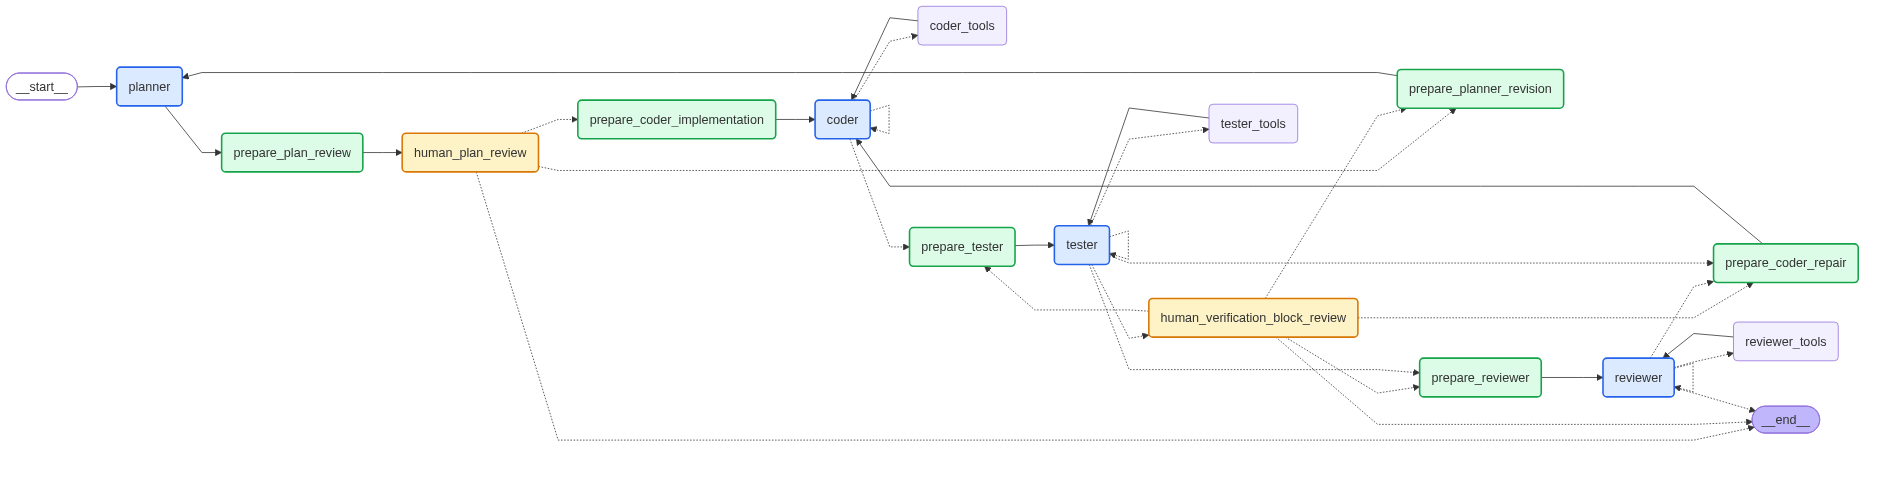
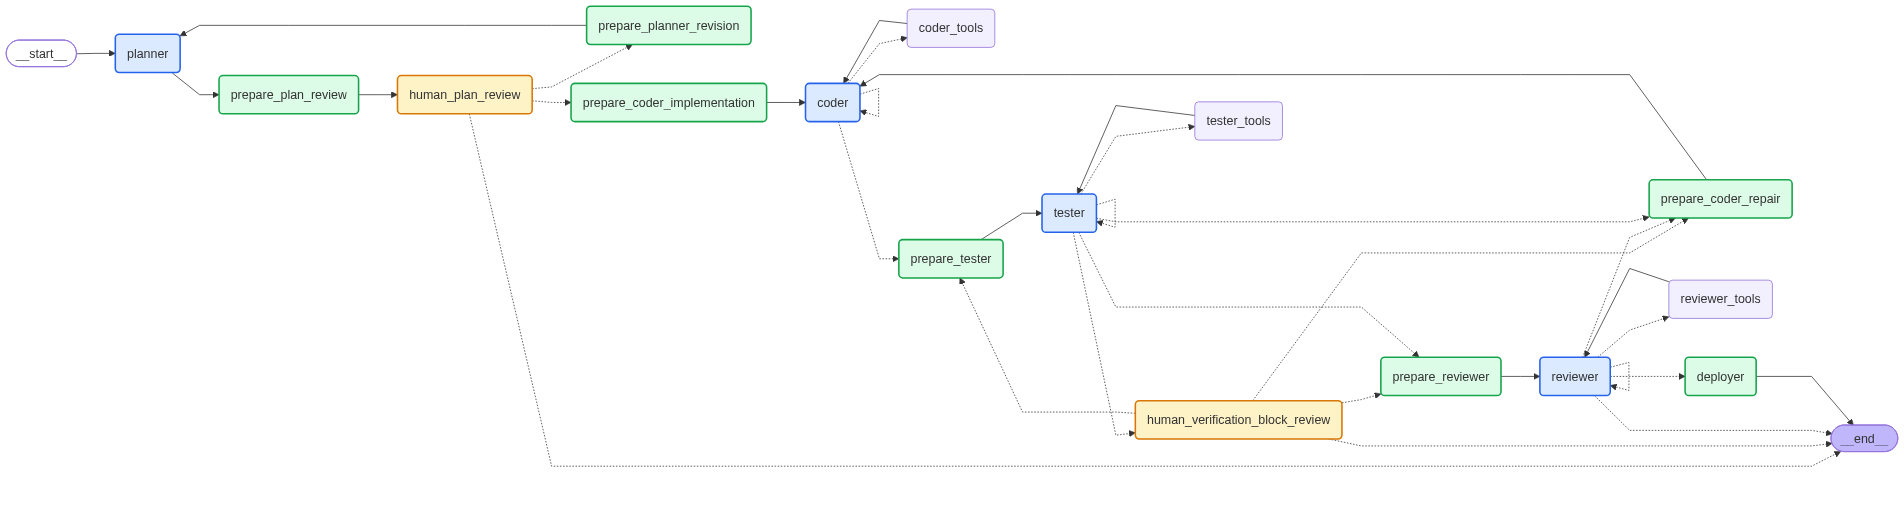
update workflow diagram and rename deploy node references to deployer

diff --git a/src/multi_agent_sdlc/workflow/graph.py b/src/multi_agent_sdlc/workflow/graph.py
@@ -90,7 +90,7 @@ def build_graph(checkpointer: BaseCheckpointSaver):
     builder.add_node("prepare_coder_repair", prepare_coder_repair_node)
     builder.add_node("reviewer", reviewer_action)
     builder.add_node("reviewer_tools", reviewer_tool_node)
-    builder.add_node("deploy", deployer_node)
+    builder.add_node("deployer", deployer_node)
 
     builder.add_edge(START, "planner")
     builder.add_edge("planner", "prepare_plan_review")
@@ -157,13 +157,13 @@ def build_graph(checkpointer: BaseCheckpointSaver):
             "prepare_coder_repair": "prepare_coder_repair",
             "reviewer": "reviewer",
             "reviewer_tools": "reviewer_tools",
-            "deploy": "deploy",
+            "deployer": "deployer",
             END: END,
         },
     )
 
     builder.add_edge("reviewer_tools", "reviewer")
-    builder.add_edge("deploy", END)
+    builder.add_edge("deployer", END)
 
     return builder.compile(
         checkpointer=checkpointer,

diff --git a/src/multi_agent_sdlc/workflow/runner.py b/src/multi_agent_sdlc/workflow/runner.py
@@ -1,4 +1,3 @@
-from multi_agent_sdlc.workflow.graph import generate_diagram
 from pydantic import BaseModel
 from multi_agent_sdlc.presentation.terminal_verification_block_review import (
     collect_verification_block_review,
@@ -38,7 +37,6 @@ def run_new_workflow(
 
     with create_checkpointer() as checkpointer:
         graph = build_graph(checkpointer)
-
         result = graph.invoke(
             initial_state,
             config=config,
